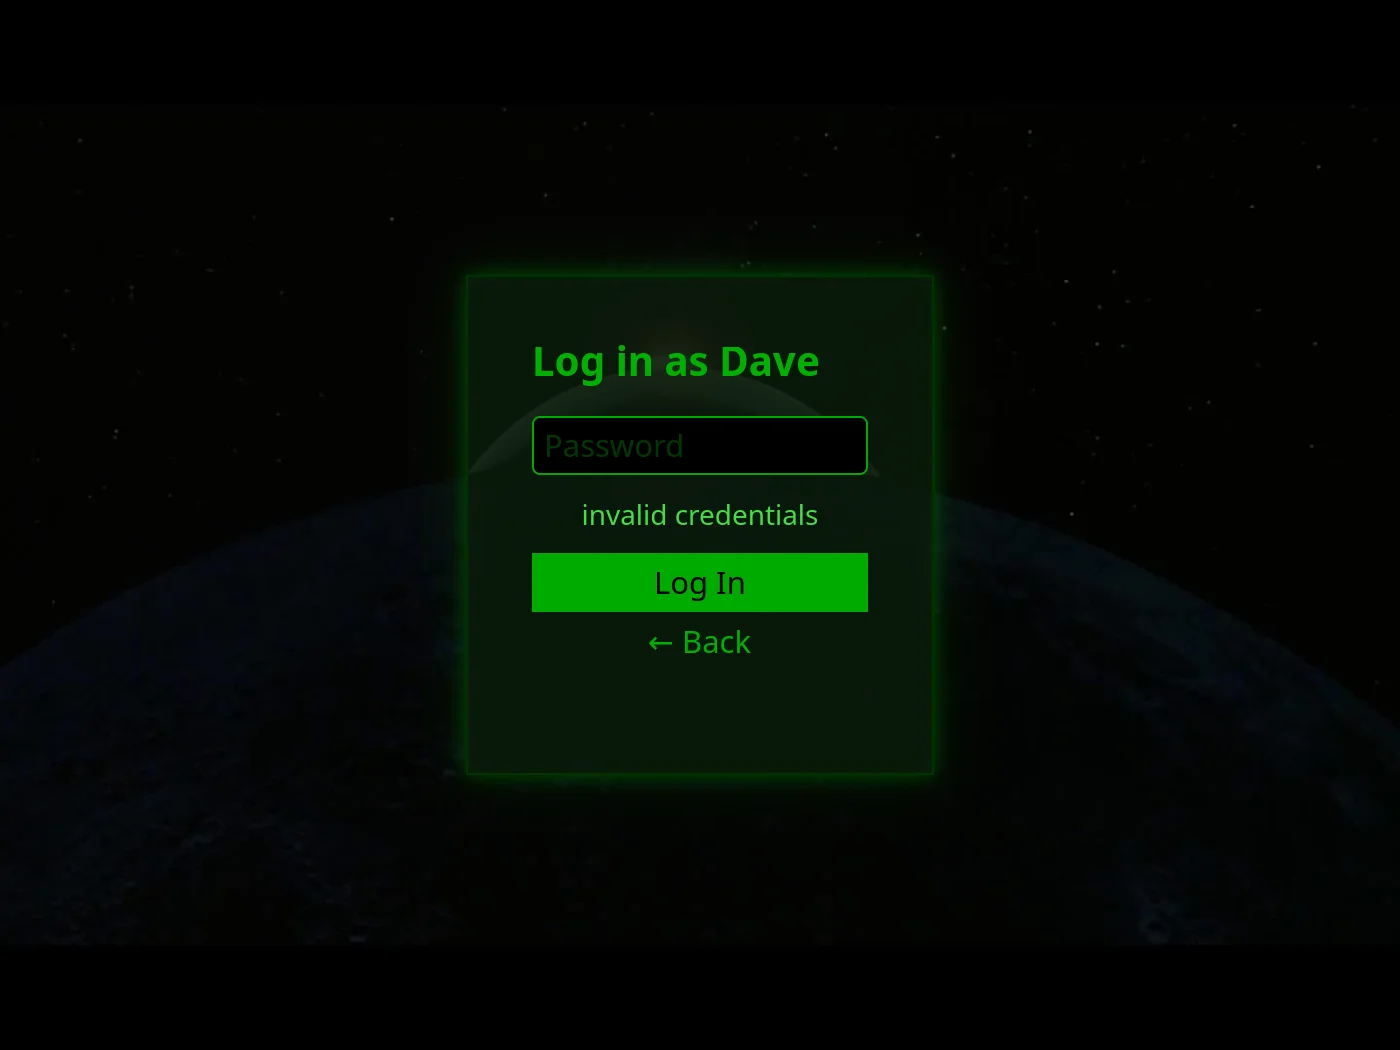
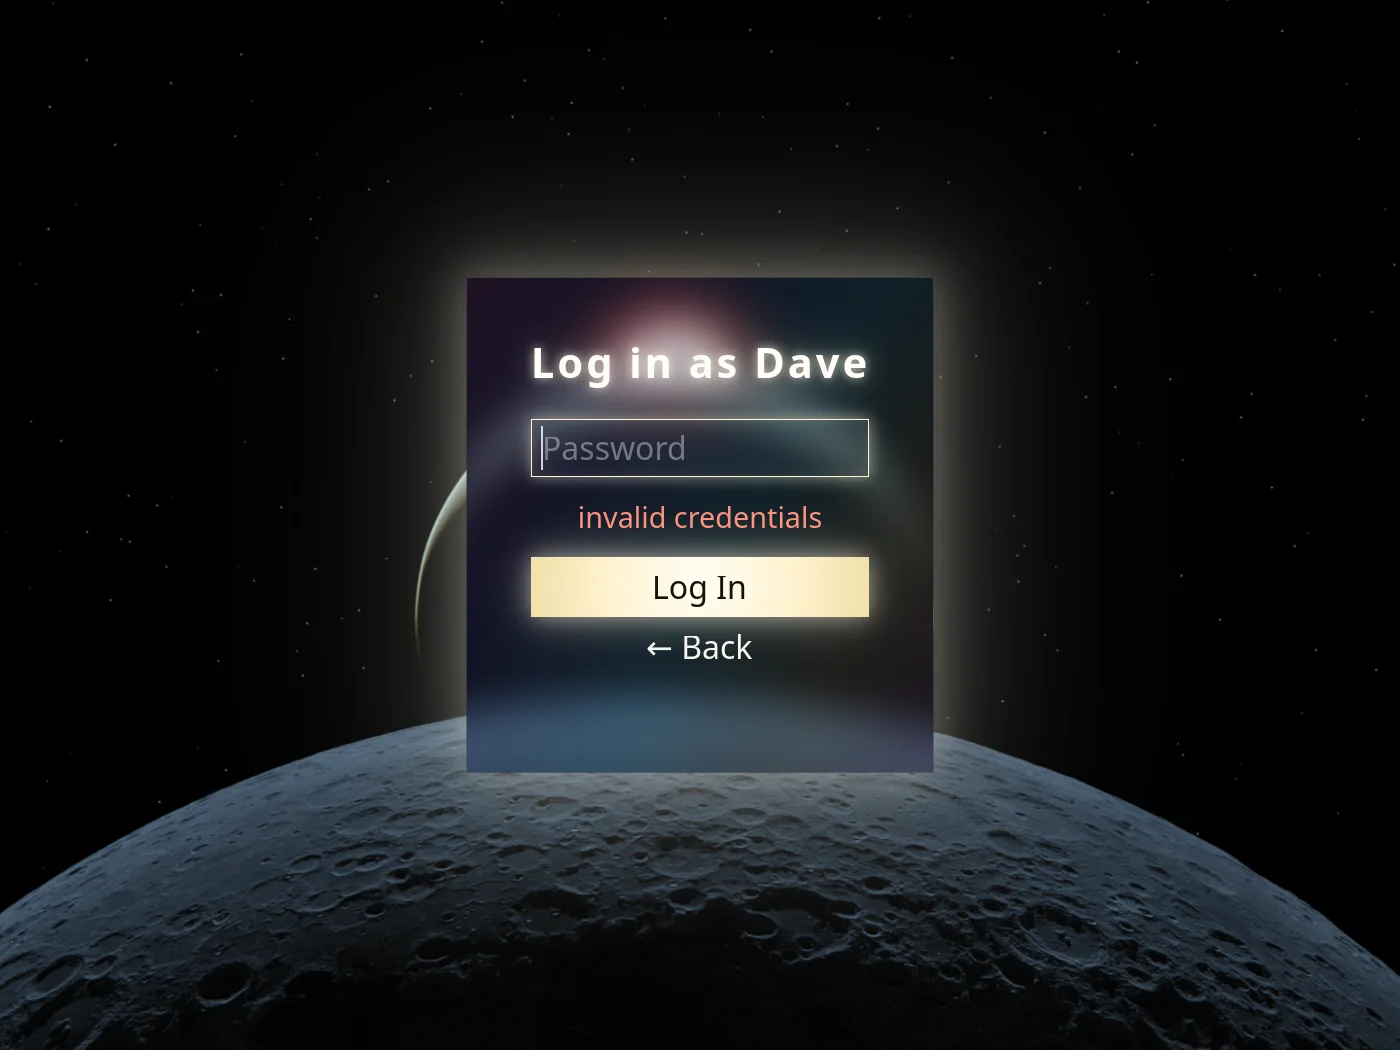
Greeter: Add prism theme, and drop rose-pine instead. Also update the README thumbnail with the new theme.

diff --git a/data/themes/prism.css b/data/themes/prism.css
@@ -1,0 +1,90 @@
+/* Prism -- white light with a spectrum hidden inside it. Goes well with dark,
+cosmic backgrounds. */
+@define-color atrium-bg           #05060e; /* near-black */
+@define-color atrium-card         rgba(14, 17, 26, 0.46); /* faintly blue glass */
+@define-color atrium-text         #f8f6ef; /* warm white */
+@define-color atrium-border       rgba(235, 236, 245, 0.22); /* faint neutral edge */
+@define-color atrium-accent       #fff3d2; /* pale warm gold-white */
+@define-color atrium-accent-hover #fffdf4; /* near-white */
+@define-color atrium-accent-fg    #14130a; /* dark pale accent */
+@define-color atrium-subtle       #b7bcca; /* cool grey */
+@define-color atrium-error        #ff8f7a; /* soft red */
+@define-color atrium-dropdown     rgba(23, 27, 38, 0.90); /* cool dark */
+
+.card {
+  border-radius: 0;
+  border: 1px solid @atrium-border;
+  /* wide warm-white corona: */
+  box-shadow: 0 0 44px  8px rgba(255, 252, 236, 0.26),   /* warm-white core */
+              0 0 120px 30px rgba(255, 250, 226, 0.16),  /* mid glow */
+              0 0 220px 70px rgba(250, 248, 236, 0.09);  /* wide aura */
+}
+
+.card-background {
+  opacity: 1;
+  filter: blur(22px) brightness(0.9) saturate(1.15);
+}
+
+/* A hint of spectrum laid over the glass. */
+.card-tint {
+  background-color: rgba(56, 79, 118, 0.15);
+  background-image: linear-gradient(120deg,
+                    rgba(255, 80, 210, 0.09) 0%,
+                    rgba(120, 90, 255, 0.08) 28%,
+                    rgba(80, 220, 255, 0.09) 55%,
+                    rgba(255, 200, 90, 0.08) 80%,
+                    rgba(255, 120, 200, 0.08) 100%);
+}
+
+.heading {
+  letter-spacing: 3px;
+  color: #fffdf6;
+  text-shadow: 0 0 10px rgba(255, 252, 236, 0.70),
+               0 0 28px rgba(255, 248, 220, 0.45),
+               0 0 60px rgba(255, 244, 206, 0.28);
+}
+
+.password-field > text {
+  border-radius: 0;
+  background-color: rgba(202, 221, 242, 0.06);
+  border: 1px solid @atrium-border;
+}
+
+.password-field > text:focus {
+  border: 1px solid @atrium-accent;
+  box-shadow: 0 0 16px rgba(255, 250, 226, 0.55),
+              inset 0 0 12px rgba(255, 250, 226, 0.12);
+}
+
+button.suggested-action {
+  border-radius: 0;
+  background-image: radial-gradient(circle at 50% 40%,
+                    #fffdf4 0%, #fff2cf 55%, #f0dfa8 100%);
+  color: @atrium-accent-fg;
+  box-shadow: 0 0 24px rgba(255, 250, 226, 0.55),
+              0 0 60px rgba(255, 246, 214, 0.34);
+}
+
+button.suggested-action:hover {
+  box-shadow: 0 0 32px rgba(255, 253, 240, 0.75),
+              0 0 90px rgba(255, 248, 220, 0.48);
+}
+
+.user-button {
+  background-color: rgba(202, 221, 238, 0.055);
+  background-image: none;
+  color: @atrium-text;
+  border: 1px solid @atrium-border;
+  border-radius: 0;
+}
+
+.user-button:hover {
+  background-color: rgba(202, 221, 238, 0.125);
+  border-color: rgba(255, 250, 226, 0.55);
+  box-shadow: 0 0 18px rgba(255, 250, 226, 0.35);
+}
+
+dropdown.session-dropdown > button {
+  border-radius: 0;
+  color: @atrium-text;
+}

diff --git a/README.md b/README.md
@@ -18,7 +18,7 @@ off to an independent user session per seat.
     <td align="center" width="33%">
       <a href="doc/screenshots/password.webp">
         <img src="doc/screenshots/password.webp" alt="Password entry"></a><br>
-      <sub>Password entry - <code>hacker</code> theme</sub>
+      <sub>Password entry - <code>prism</code> theme</sub>
     </td>
     <td align="center" width="33%">
       <a href="doc/screenshots/ghibli.webp">
